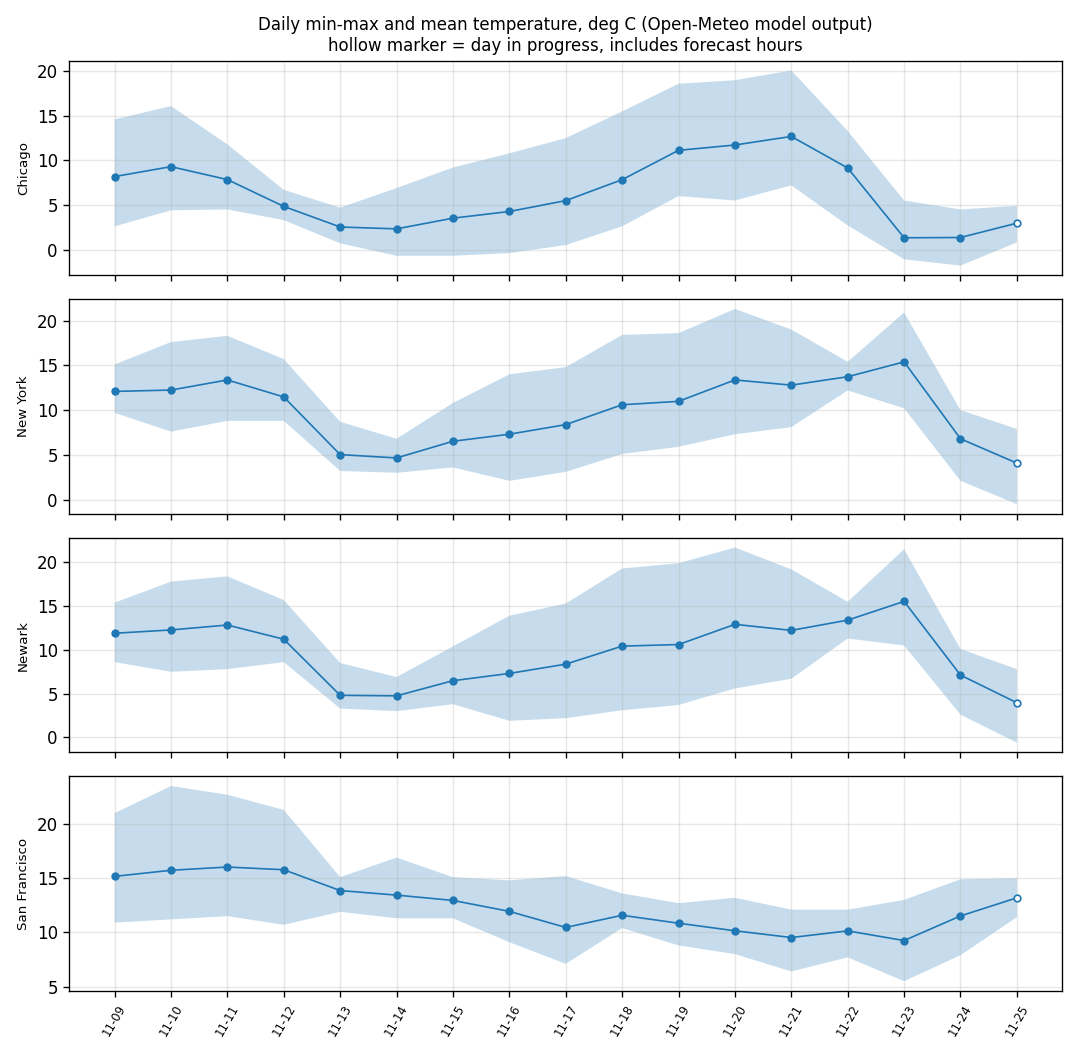
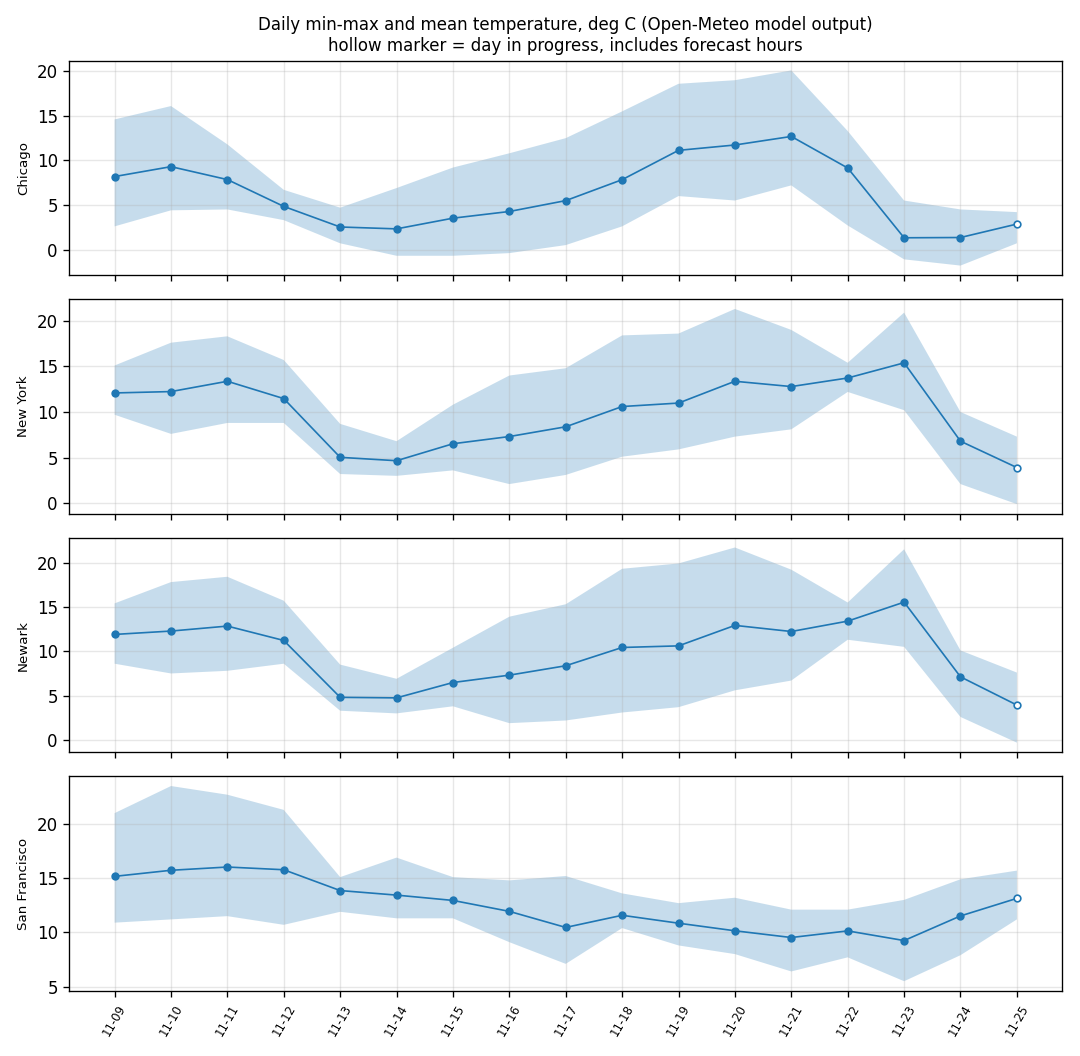
Add frost days table; refresh data

diff --git a/src/weatherwh/dashboard.py b/src/weatherwh/dashboard.py
@@ -209,6 +209,29 @@ def temperature_volatility(con, now_utc: dt.datetime | None = None) -> list[dict
     return out
 
 
+def frost_days(con, now_utc: dt.datetime | None = None, freeze_c: float = 0.0) -> list[dict]:
+    """Per city over completed days: days whose minimum temperature was at or
+    below freeze_c, the share of completed days, and the coldest minimum with
+    its date. Model output, current window only."""
+    from .extremes import day_status
+
+    rows = con.execute(
+        "SELECT city, day, min_temp_c FROM mart_daily_city "
+        "WHERE min_temp_c IS NOT NULL ORDER BY city, day").fetchall()
+    per: dict[str, list] = {}
+    for city, day, lo in rows:
+        if day_status(city, day, now_utc) == "complete":
+            per.setdefault(city, []).append((day, lo))
+    out = []
+    for city, days in sorted(per.items()):
+        frosty = [d for d in days if d[1] <= freeze_c]
+        cold = min(days, key=lambda d: (d[1], d[0]))
+        out.append({"city": city, "days": len(days), "frost_days": len(frosty),
+                    "share": round(len(frosty) / len(days), 4),
+                    "coldest_c": cold[1], "coldest_day": cold[0]})
+    return out
+
+
 def plot_rain_totals(con, out_path, now_utc: dt.datetime | None = None, wet_days: bool = True) -> bool:
     """Total rain per city over completed days only (in-progress days include
     forecast hours and would skew totals). Bars annotated with the number of
@@ -355,6 +378,13 @@ def render_markdown(con, generated_at: dt.datetime | None = None) -> str:
                   "| City | Day pairs | Mean change (C) | Largest swing (C) | On |", "| --- | ---: | ---: | ---: | --- |"]
         for v in vol:
             lines.append(f"| {v['city']} | {v['pairs']} | {v['mean_change_c']} | {v['max_change_c']} | {v['max_change_day']} |")
+    frost = frost_days(con)
+    if frost:
+        lines += ["", "## Frost days (minimum at or below 0 C)", "",
+                  "Completed days only. Model output, current window only.", "",
+                  "| City | Days | Frost days | Share | Coldest minimum (C) | On |", "| --- | ---: | ---: | ---: | ---: | --- |"]
+        for f in frost:
+            lines.append(f"| {f['city']} | {f['days']} | {f['frost_days']} | {f['share']:.1%} | {f['coldest_c']} | {f['coldest_day']} |")
     lines += ["", "![Total rain per city](rain_totals.png)", ""]
     lines += ["", "![Daily temperature range by city](temp_range_by_city.png)", ""]
     severe = extremes.severe_days(con)[:8]

diff --git a/tests/test_extremes.py b/tests/test_extremes.py
@@ -304,3 +304,17 @@ def test_temperature_volatility_adjacent_days_only():
                     "max_change_day": dt.date(2026, 11, 2)}]
     assert dashboard.temperature_volatility(_empty()) == []
     con.close()
+
+
+def test_frost_days_threshold_inclusive_completed_only():
+    con = warehouse.connect(":memory:")
+    rows = [{"city": "A", "hour": T0 + dt.timedelta(days=d), "ingested_at": T0,
+             "temperature_2m": t, "precipitation": 0.0, "wind_speed_10m": 5.0}
+            for d, t in [(0, 0.0), (1, 5.0), (2, -3.0), (3, -20.0)]]       # day 3 in progress
+    warehouse.refresh(con, rows)
+    now = dt.datetime(2026, 11, 4, 12, tzinfo=dt.timezone.utc)
+    assert dashboard.frost_days(con, now_utc=now) == [
+        {"city": "A", "days": 3, "frost_days": 2, "share": 0.6667, "coldest_c": -3.0, "coldest_day": dt.date(2026, 11, 3)}]
+    assert dashboard.frost_days(con, now_utc=now, freeze_c=-5.0)[0]["frost_days"] == 0
+    assert dashboard.frost_days(_empty()) == []
+    con.close()

diff --git a/reports/dashboard.md b/reports/dashboard.md
@@ -1,13 +1,13 @@
 # Weather Warehouse - daily dashboard
 
-Generated 2026-11-25 12:04 UTC.
+Generated 2026-11-25 15:04 UTC.
 
 | city | day | avg_temp_c | min_temp_c | max_temp_c | total_precip_mm | max_wind_kmh | hours_observed |
 | --- | --- | --- | --- | --- | --- | --- | --- |
-| Chicago | 2026-11-25 | 2.96 | 0.8 | 4.9 | 0.0 | 27.9 | 24 |
-| New York | 2026-11-25 | 4.08 | -0.5 | 7.9 | 0.0 | 17.5 | 24 |
-| Newark | 2026-11-25 | 3.96 | -0.6 | 7.8 | 0.0 | 17.3 | 24 |
-| San Francisco | 2026-11-25 | 13.19 | 11.4 | 15.0 | 3.3 | 9.4 | 24 |
+| Chicago | 2026-11-25 | 2.86 | 0.7 | 4.2 | 0.0 | 28.6 | 24 |
+| New York | 2026-11-25 | 3.91 | -0.1 | 7.3 | 0.0 | 17.5 | 24 |
+| Newark | 2026-11-25 | 3.94 | -0.3 | 7.6 | 0.0 | 18.1 | 24 |
+| San Francisco | 2026-11-25 | 13.14 | 11.2 | 15.7 | 3.3 | 9.5 | 24 |
 | Chicago | 2026-11-24 | 1.35 | -1.8 | 4.5 | 0.0 | 18.8 | 24 |
 | New York | 2026-11-24 | 6.8 | 2.1 | 10.0 | 0.0 | 23.5 | 24 |
 | Newark | 2026-11-24 | 7.12 | 2.6 | 10.1 | 0.0 | 24.6 | 24 |
@@ -42,8 +42,8 @@ Hours at or above 30C / at or below 0C and degree-hours beyond each threshold. I
 | city | heat hours | cold hours | heat degree-hours | cold degree-hours |
 | --- | ---: | ---: | ---: | ---: |
 | Chicago | 0 | 19 | 0.0 | 20.3 |
-| New York | 0 | 3 | 0.0 | 0.8 |
-| Newark | 0 | 3 | 0.0 | 1.4 |
+| New York | 0 | 3 | 0.0 | 0.2 |
+| Newark | 0 | 3 | 0.0 | 0.8 |
 | San Francisco | 0 | 0 | 0.0 | 0.0 |
 
 ## Precipitation
@@ -74,10 +74,10 @@ Last successful Open-Meteo fetch per city (empty or failed fetches do not count)
 
 | City | Last successful fetch | Age (h) | Failed fetches since | Latest hour held |
 | --- | --- | ---: | ---: | --- |
-| Chicago | 2026-11-25 07:04:33.786222 | 0.0 | 0 | 2026-11-25 23:00:00 |
-| New York | 2026-11-25 07:04:33.786222 | 0.0 | 0 | 2026-11-25 23:00:00 |
-| Newark | 2026-11-25 07:04:33.786222 | 0.0 | 0 | 2026-11-25 23:00:00 |
-| San Francisco | 2026-11-25 07:04:33.786222 | 0.0 | 0 | 2026-11-25 23:00:00 |
+| Chicago | 2026-11-25 10:04:07.476694 | 0.0 | 0 | 2026-11-25 23:00:00 |
+| New York | 2026-11-25 10:04:07.476694 | 0.0 | 0 | 2026-11-25 23:00:00 |
+| Newark | 2026-11-25 10:04:07.476694 | 0.0 | 0 | 2026-11-25 23:00:00 |
+| San Francisco | 2026-11-25 10:04:07.476694 | 0.0 | 0 | 2026-11-25 23:00:00 |
 
 ## Dry-day streaks (rain under 1 mm)
 
@@ -157,6 +157,17 @@ Mean absolute change in daily average temperature between consecutive completed 
 | New York | 15 | 2.03 | 8.59 | 2026-11-24 |
 | Newark | 15 | 1.97 | 8.42 | 2026-11-24 |
 | San Francisco | 15 | 0.89 | 2.27 | 2026-11-24 |
+
+## Frost days (minimum at or below 0 C)
+
+Completed days only. Model output, current window only.
+
+| City | Days | Frost days | Share | Coldest minimum (C) | On |
+| --- | ---: | ---: | ---: | ---: | --- |
+| Chicago | 16 | 5 | 31.2% | -1.8 | 2026-11-24 |
+| New York | 16 | 0 | 0.0% | 2.1 | 2026-11-16 |
+| Newark | 16 | 0 | 0.0% | 1.9 | 2026-11-16 |
+| San Francisco | 16 | 0 | 0.0% | 5.5 | 2026-11-23 |
 
 ![Total rain per city](rain_totals.png)
 
